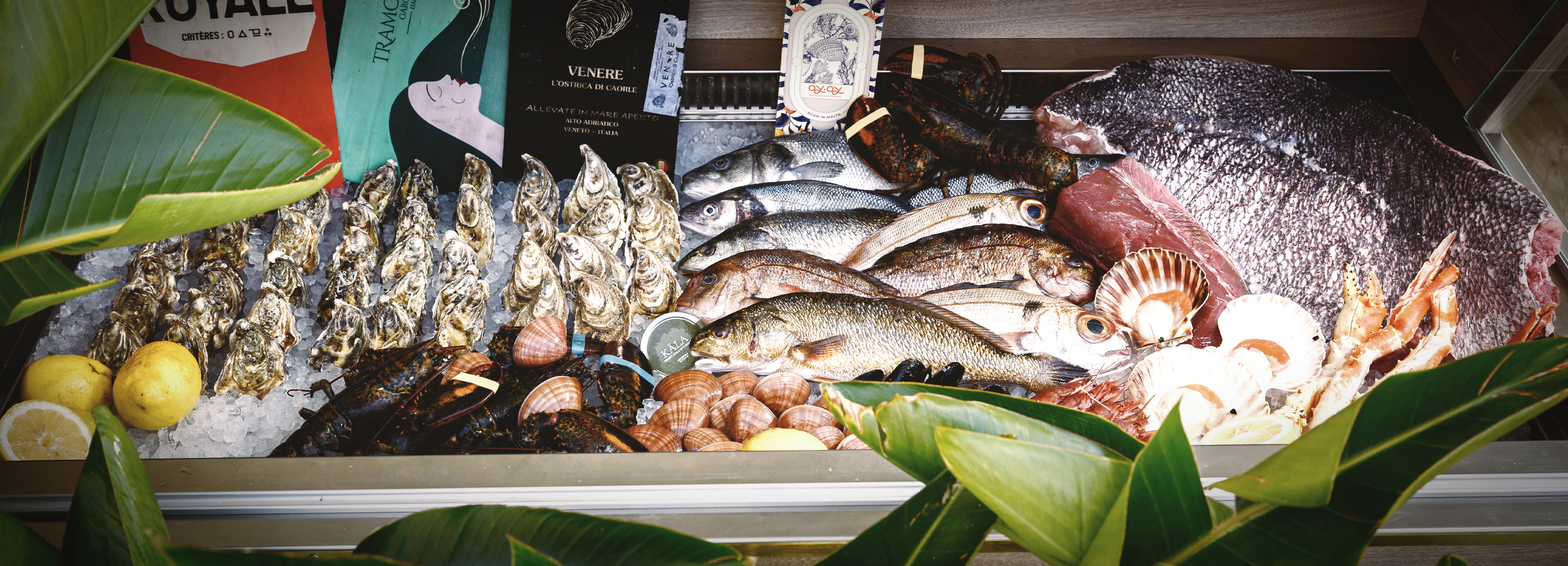
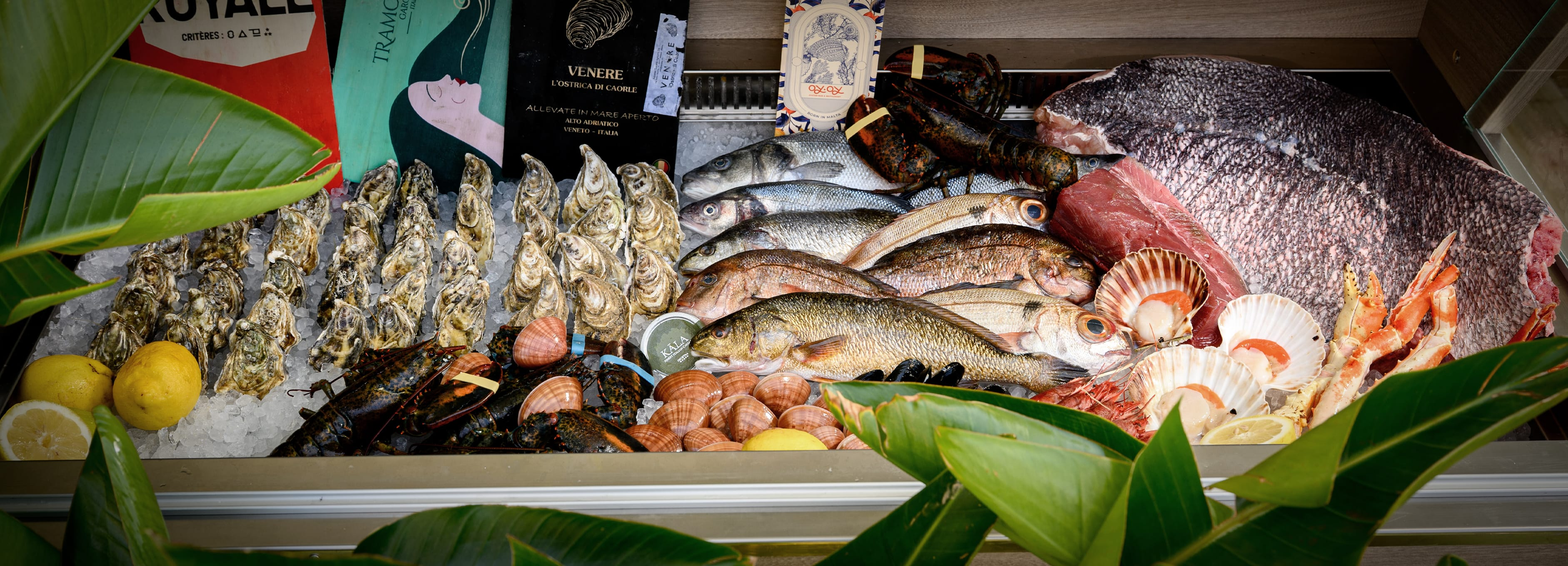
ytb container fix

diff --git a/components/admin/TiptapEditor.vue b/components/admin/TiptapEditor.vue
@@ -76,22 +76,22 @@ import { watch } from 'vue'
 import Image from '@tiptap/extension-image'
 import Link from '@tiptap/extension-link'
 import Youtube from '@tiptap/extension-youtube'
-const CustomYoutube = Youtube.extend({
-  renderHTML({ HTMLAttributes }) {
-    return [
-      'div',
-      { class: 'youtube-container' },
-      [
-        'iframe',
-        {
-          ...HTMLAttributes,
-          allow: 'accelerometer; autoplay; clipboard-write; encrypted-media; gyroscope; picture-in-picture',
-          allowfullscreen: 'true',
-        },
-      ],
-    ]
-  },
-})
+// const CustomYoutube = Youtube.extend({
+//   renderHTML({ HTMLAttributes }) {
+//     return [
+//       'div',
+//       { class: 'youtube-container' },
+//       [
+//         'iframe',
+//         {
+//           ...HTMLAttributes,
+//           allow: 'accelerometer; autoplay; clipboard-write; encrypted-media; gyroscope; picture-in-picture',
+//           allowfullscreen: 'true',
+//         },
+//       ],
+//     ]
+//   },
+// })
 // import CustomYoutube from '@/compositions/tiptapCustomYoutube';
 const props = defineProps({
   modelValue: String
@@ -99,22 +99,14 @@ const props = defineProps({
 const emit = defineEmits({
   'update:modelValue': String
 })
-// Link.configure({
-//   HTMLAttributes: {
-//     // Change rel to different value
-//     // Allow search engines to follow links(remove nofollow)
-//     rel: 'noopener noreferrer',
-//     // Remove target entirely so links open in current tab
-//     target: null,
-//   },
-// })
+
 const editor = useEditor({
   content: props.modelValue,
   extensions: [
     TiptapStarterKit, 
     Image, 
     Link,
-    CustomYoutube.configure({
+    Youtube.configure({
       controls: true,
       nocookie: true,
     }),

diff --git a/pages/blog/[id].vue b/pages/blog/[id].vue
@@ -237,6 +237,21 @@ useSeoMeta({
       }
     }
 
+    div[data-youtube-video] {
+      position: relative;
+      padding-bottom: 56.25%; /* 16:9 */
+      height: 0;
+      overflow: hidden;
+    }
+
+    div[data-youtube-video] iframe {
+      position: absolute;
+      top: 0;
+      left: 0;
+      width: 100%;
+      height: 100%;
+    }
+
     .youtube-container {
       position: relative;
       padding-bottom: 56.25%; /* 16:9 */

diff --git a/pages/admin/chef.vue b/pages/admin/chef.vue
@@ -64,6 +64,8 @@ definePageMeta({
   middleware: ["auth"],
 });
 import { useAdminStore } from "@/store/admin";
+import { useConfirm } from "@/compositions/useConfirm";
+const { isConfirmed } = useConfirm();
 const adminStore = useAdminStore();
 const chef = ref();
 
